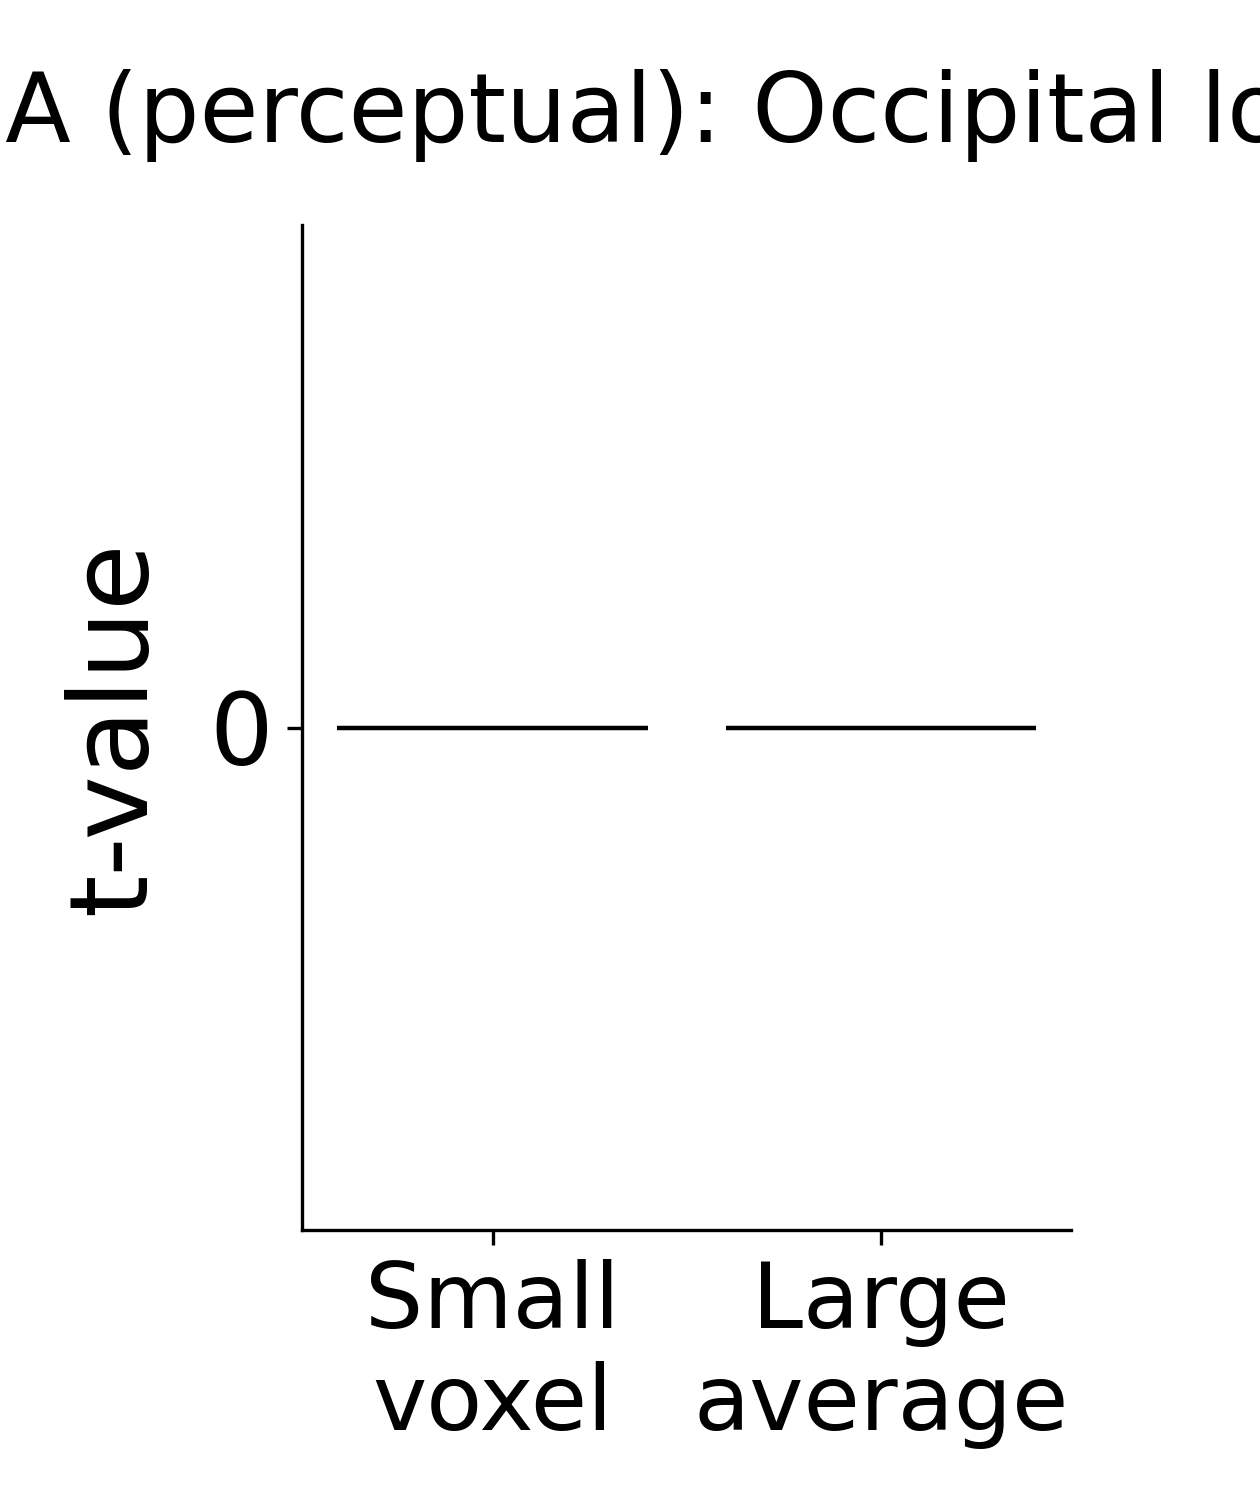
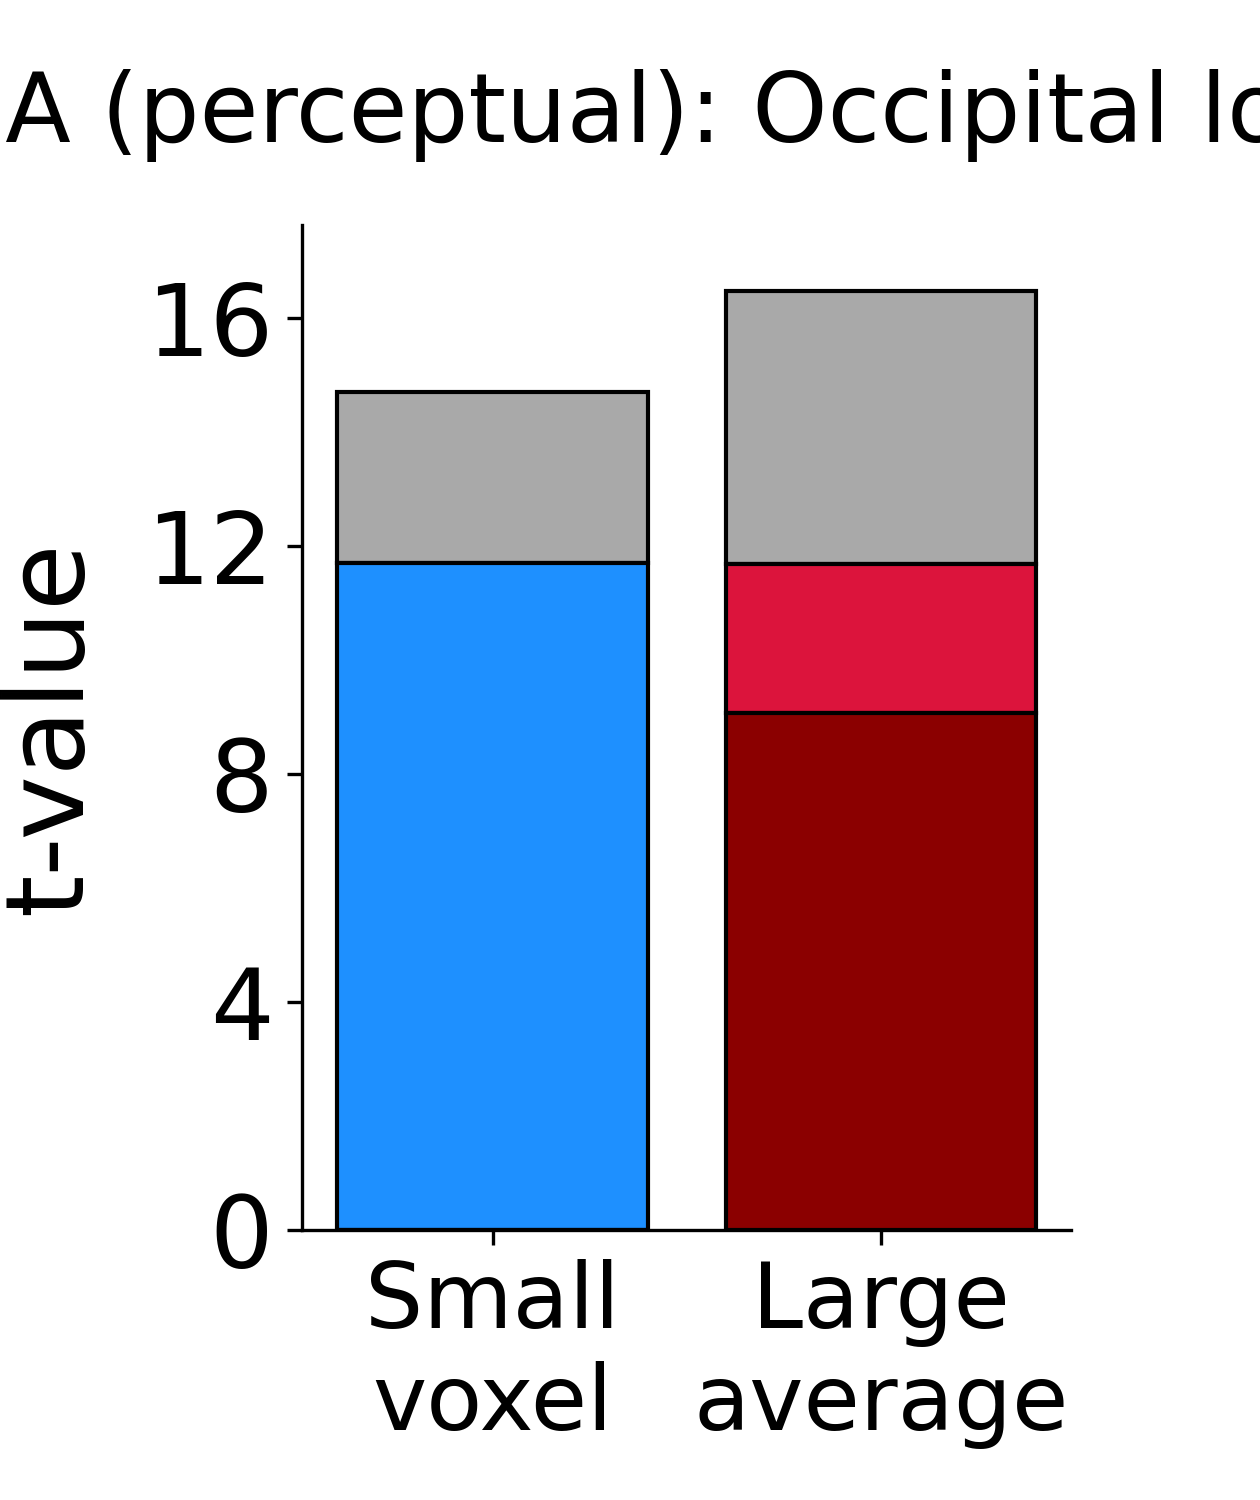
fix bug where semantic=False was defaulting to layer = 2

diff --git a/connRSA_finalizing/plot_RSM_x_RSM_bars.py b/connRSA_finalizing/plot_RSM_x_RSM_bars.py
@@ -61,7 +61,8 @@ def interaction_bars(kwargs):
                 else:
                     kwargs['ROI_focus'] = f'{cond[0]}_BOLD'
                 kwargs['ROIs_ctrl'] = []
-                print(f'{kwargs=}')
+                # print(f'{kwargs=}')
+                # quit()
                 beta1, _, _ = pickle_wrap(do_regr_RSA_sn, kwargs=kwargs,
                                           verbose=-1, easy_override=False)
 
@@ -332,7 +333,7 @@ def do_regr_dif(semantic=False, RSA=True, big_voxelwise=True,
                   'second_order': second_order,
                   'RDM_method': RDM_method,
                   'stdize_by_run': stdize_by_run,
-                  'regress_row': regress_row, 'four_tasks': four_tasks,
+                  'regress_row': regress_row, #'four_tasks': four_tasks,
                   }
 
         target_name = fr'{target_ROI}_M'
@@ -410,16 +411,18 @@ def plot_FigureS1_bars_region(region='Occipital', big_voxelwise=True,
     stdize_by_run = False
     regress_row = False
 
-    kwargs = {'fp': None, 'fp0': None,
-              'fp1': None, 'trial_similarity': trial_similarity,
+    kwargs = {'fp': None,
+              # 'fp0': None,
+              # 'fp1': None,
+              'trial_similarity': trial_similarity,
               'second_order': second_order,
               'RDM_method': RDM_method,
               'stdize_by_run': stdize_by_run,
-              'regress_row': regress_row, 'four_tasks': four_tasks,
+              'regress_row': regress_row, #'four_tasks': four_tasks,
               }
 
 
-    fps = prep_fps(kwargs['four_tasks'])
+    fps = prep_fps(four_tasks)
     sns = get_sns('all')['healthy']
 
     bad_sns = ['116', '125', '133', '213', '215', '231']
@@ -443,7 +446,7 @@ def plot_FigureS1_bars_region(region='Occipital', big_voxelwise=True,
         cond2betas[cond] = np.full((len(sns), len(fps)), np.nan)
     for i, sn in enumerate(sns):
         for j, fp in enumerate(fps):
-            kwargs['cv'] = False
+            # kwargs['cv'] = False
             kwargs['return_dif'] = True
             kwargs['sn'] = sn
             kwargs['fp'] = fp
@@ -454,7 +457,7 @@ def plot_FigureS1_bars_region(region='Occipital', big_voxelwise=True,
                 if cond[0] in ['Occipital', 'IT']:
                     kwargs['semantic'] = cond[1]
                     if big_voxelwise:
-                        kwargs['ROI_focus'] = f'{cond[0]}_BOLD_cmb'
+                        kwargs['ROI_focus'] = f'{cond[0]}_BOLD_ctrl_cmb'
                     else:
                         kwargs['ROI_focus'] = f'{cond[0]}_BOLD'
 
@@ -462,7 +465,7 @@ def plot_FigureS1_bars_region(region='Occipital', big_voxelwise=True,
                 else:
                     kwargs['semantic'] = cond[0]
                     if cond[1] == 'Local':
-                        kwargs['ROI_focus'] = f'{region}_M'
+                        kwargs['ROI_focus'] = f'{region}_M_{trial_similarity}'
                         # kwargs['ROIs_ctrl'] = [f'{region}_BOLD_cmb']
                     else:
                         if big_voxelwise:
@@ -471,12 +474,18 @@ def plot_FigureS1_bars_region(region='Occipital', big_voxelwise=True,
                             kwargs['ROI_focus'] = f'{region}_BOLD'
                         # kwargs['ROI_focus'] = f'{region}_BOLD_cmb'
                     kwargs['ROIs_ctrl'] = [] # f'{region}_M'
+                if kwargs['semantic'] == False:
+                    kwargs['semantic'] = (False, 0)
 
-                beta1, _, _ = pickle_wrap(do_regr_RSA_sn, kwargs=kwargs,
-                                          verbose=-1, easy_override=False)
-
+                beta1, test, _ = pickle_wrap(do_regr_RSA_sn, kwargs=kwargs,
+                                          verbose=-1, easy_override=True)
+                # print(beta1)
+                # print(test)
+                # print(kwargs)
+                # print('--------')
+                # quit()
                 cond2betas[cond][i, j] = beta1 * 1000
-            # quit()
+    # quit()
 
     cond2betas = {cond: np.nanmean(betas, axis=1) for cond, betas
                   in cond2betas.items()}
@@ -600,9 +609,9 @@ def plot_Figure5_bars():
 
 def plot_FigureS1_bars():
     plot_FigureS1_bars_region('Occipital', big_voxelwise=True)
-    # plot_FigureS1_bars_region('ITL', big_voxelwise=True)
-    # plot_FigureS1_bars_region('Parietal', big_voxelwise=True)
-    # plot_FigureS1_bars_region('PFC', big_voxelwise=True)
+    plot_FigureS1_bars_region('ITL', big_voxelwise=False)
+    plot_FigureS1_bars_region('Parietal', big_voxelwise=True)
+    plot_FigureS1_bars_region('PFC', big_voxelwise=True)
 
     # plot_FigureS1_bars_region('Occipital', big_voxelwise=True)
     # plot_FigureS1_bars_region('ITL', big_voxelwise=True)
@@ -611,7 +620,7 @@ def plot_FigureS1_bars():
     # plot_FigureS1_bars_region('Parietal', big_voxelwise=True)
     # plot_FigureS1_bars_region('ITL', big_voxelwise=True)
     # plot_FigureS1_bars_region('Occipital', big_voxelwise=True)
-    # plot_FigureS1_bars_region('OrG', big_voxelwise=False)
+    # plot_FigureS1_bars_region('OrG', big_voxelwise=True)
     # plot_FigureS1_bars_region('SFG', big_voxelwise=False)
     # plot_FigureS1_bars_region('INS', big_voxelwise=False)
     # plot_FigureS1_bars_region('ITG', big_voxelwise=False)

diff --git a/connRSA/conn_regress.py b/connRSA/conn_regress.py
@@ -254,7 +254,7 @@ def do_regr_RSA_sn(sn, ROI_focus, ROIs_ctrl, fp, trial_similarity,
     if isinstance(semantic, bool) and semantic:
         RSM_stim = get_sn_fp_stim_RSM(sn, fp, semantic)
     elif isinstance(semantic, bool) and not semantic:
-        RSM_stim = get_sn_fp_stim_RSM(sn, fp, False, 2)
+        RSM_stim = get_sn_fp_stim_RSM(sn, fp, False, 0)
     elif isinstance(semantic, tuple):
         assert not semantic[0]
         RSM_stim = get_sn_fp_stim_RSM(sn, fp, False, semantic[1])
@@ -935,6 +935,7 @@ def prep_ROI_avg(target_name, ROI_cols,
         ctrl_M = np.nanmean(np.array(l), axis=0)
         with open(fp_out, 'wb') as f:
             np.save(f, ctrl_M)
+        print(fp_out)
 
 
 def do_regr():
@@ -967,7 +968,11 @@ def do_regr():
 
     target_ROIs = get_atlas(combine_regions=True,
                             combine_bilateral=True)['tick_labels']
-    target_ROIs = ['tha_str']
+    # target_ROIs = ['tha_str']
+    target_ROIs = (['IT', 'ITL', 'Occipital', 'Parietal', 'PFC', 'subcort'] +
+                   target_ROIs)
+    # target_ROIs = ['Occipital']
+
 
     ts_ROI, ts_BOLD, ts_conn = [], [], []
     for regress_row in [False]:
@@ -987,11 +992,11 @@ def do_regr():
                       'regress_row': regress_row, 'four_tasks': four_tasks,
                       }
 
-            voxel_small_M = fr'{target_ROI}_M'
+            voxel_small_M = fr'{target_ROI}_M_{trial_similarity}'
             prep_ROI_avg(voxel_small_M, ROI_lvl_control, RSA=RSA, ISPC=ISPC,
                          ERS_alt=ERS_alt, **kwargs)
             print(f'prepped: {voxel_small_M}')
-            # continue
+            continue
             # print('test')
             # quit()
 
@@ -1009,7 +1014,7 @@ def do_regr():
 
             t_ROIs_all, t_bold_all, t_conn_all, title = (
                 pickle_wrap(plot_stacked_bars, kwargs=outer_kwargs,
-                            verbose=-1, easy_override=False))
+                            verbose=-1, easy_override=True))
 
             print(f'{target_ROI} | {t_ROIs_all:.2f}, {t_bold_all:.2f} '
                   f'{t_conn_all:.2f}')

diff --git a/connRSA/plot_Fig5_v2_bars.py b/connRSA/plot_Fig5_v2_bars.py
@@ -36,26 +36,36 @@ def plot_Fig5_v2_kw(kw, fps, big_voxelwise, region, std=False,
             # print(f'{sn}, {fp}')
             kw['sn'] = sn
             kw['fp'] = fp
-            kw['ROI_focus'] = f'{region}_M'
+            kw['ROI_focus'] = f'{region}_M_corr'
             dist_key = f'{region}_BOLD_cmb' if big_voxelwise else f'{region}_BOLD'
-            dist_key = f'{region}_BOLD_ctrl_cmb'
+            # dist_key = f'{region}_BOLD_ctrl_cmb'
             kw['ROIs_ctrl'] = [dist_key]
+            kw['return_dif'] = True
+            # easy_override = True
             beta1, beta2, dif = utils.pickle_wrap(do_regr_RSA_sn, kwargs=kw,
                                                   verbose=-1,
                                                   easy_override=easy_override)
+            # print(beta1)
+            # print(beta2)
             betas_local[i, j] = beta1
             betas_dist[i, j] = beta2
             betas_dif[i, j] = dif
 
             kw['ROIs_ctrl'] = []
+            # print(kw)
             corr_local, _, _ = utils.pickle_wrap(do_regr_RSA_sn, kwargs=kw,
                                                  verbose=-1, easy_override=easy_override)
+            # print(corr_local)
+            # quit()
             corrs_local[i, j] = corr_local
 
             kw['ROI_focus'] = dist_key
+
             corr_dist, _, _ = utils.pickle_wrap(do_regr_RSA_sn, kwargs=kw,
                                                 verbose=-1, easy_override=easy_override)
             corrs_dist[i, j] = corr_dist
+            print(corr_dist)
+            quit()
 
     assert np.sum(np.isnan(corrs_local)) == 0
     assert np.sum(np.isnan(corrs_dist)) == 0
@@ -264,5 +274,5 @@ if __name__ == '__main__':
     # plot_Fig5_v2_bars_all()
     # plot_Fig5_v2_bars_all(big_voxelwise=False, semantic=True)
     # plot_Fig5_v2_bars_all(semantic=True,) 
-    plot_Fig5_v2_bars_all(big_voxelwise=True)
+    plot_Fig5_v2_bars_all(big_voxelwise=False)
 

diff --git a/connRSA/DistRep_ROI_RSA.py b/connRSA/DistRep_ROI_RSA.py
@@ -166,7 +166,7 @@ if __name__ == '__main__':
     targets = ['OC_T', 'Occipital', 'IT', 'OC_IT']
     targets = ['Ventral']
     targets = ['Occipital', 'IT', 'ITL']
-    targets = ['tha_str']
+    # targets = ['tha_str']
     # targets = ['ITL']
     for sem_per in [True, False]:
         for target in targets:#[::-1]:
